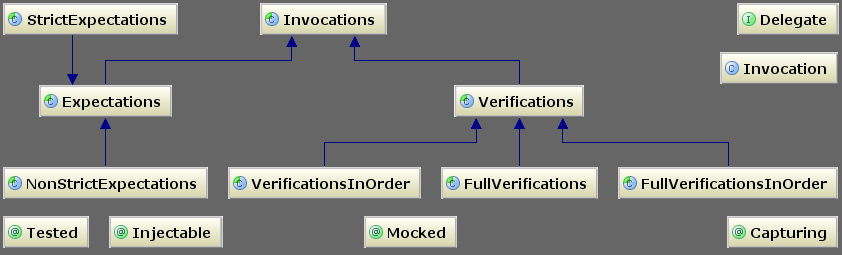
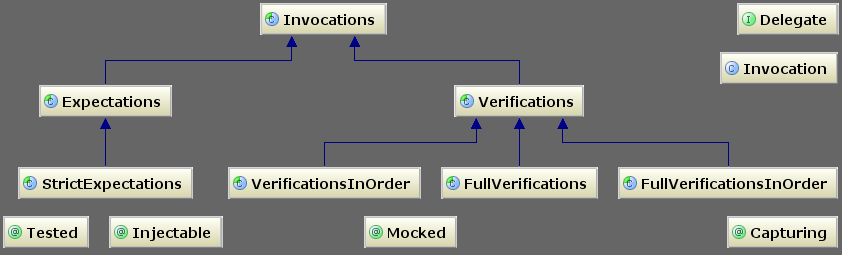
Updated the documentation to reflect deprecation of NonStrictExpectations.

Changed region(s): [[0.0, 0.0, 0.2162, 0.1373], [0.0, 0.6588, 0.247, 0.7961], [0.0618, 0.2745, 0.0926, 0.3294]]

diff --git a/tutorial/Mocking.html b/tutorial/Mocking.html
@@ -1,6 +1,6 @@
 <!DOCTYPE html>
 <!--
-  ~ Copyright (c) 2006-2015 Rogério Liesenfeld
+  ~ Copyright (c) 2006 Rogério Liesenfeld
   ~ This file is subject to the terms of the MIT license (see LICENSE.txt).
   -->
 <html>
@@ -31,7 +31,7 @@
    <li><a href="#expectation">Expectations</a></li>
    <li><a href="#model">The <em>record-replay-verify</em> model</a></li>
    <li>
-      <a href="#strictness">Regular, <em>strict</em>, and <em>non-strict</em> expectations</a>
+      <a href="#strictness">Regular versus <em>strict</em> expectations</a>
       <ol>
          <li><a href="#strictMocks">Strict and non-strict <em>mocks</em></a></li>
       </ol>
@@ -126,9 +126,8 @@
 </p>
 <div style="text-align: center;" title="Click on types to open API documentation">
    <map name="figure1">
-      <area shape="rect" coords="2,2,177,35" href="../api1x/mockit/StrictExpectations.html">
-      <area shape="rect" coords="38,84,172,117" href="../api1x/mockit/Expectations.html">
-      <area shape="rect" coords="2,166,208,199" href="../api1x/mockit/NonStrictExpectations.html">
+      <area shape="rect" coords="39,84,172,117" href="../api1x/mockit/Expectations.html">
+      <area shape="rect" coords="18,167,193,199" href="../api1x/mockit/StrictExpectations.html">
       <area shape="rect" coords="453,84,585,117" href="../api1x/mockit/Verifications.html">
       <area shape="rect" coords="227,166,421,199" href="../api1x/mockit/VerificationsInOrder.html">
       <area shape="rect" coords="440,166,598,199" href="../api1x/mockit/FullVerifications.html">
@@ -416,7 +415,7 @@ public class SomeTest
 <img src="code-folding.png" style="border: 1px solid #888; box-shadow: 4px 4px 4px #666;">
 
 <h2 id="strictness">
-   <a href="#strictness">Regular, <em>strict</em>, and <em>non-strict</em> expectations</a>
+   <a href="#strictness">Regular versus <em>strict</em> expectations</a>
 </h2>
 <p>
    Expectations recorded inside a
@@ -437,41 +436,28 @@ public class SomeTest
    This is achieved by using the <a href="../api1x/mockit/StrictExpectations.html">StrictExpectations</a> subclass.
 </p>
 <p>
-   Finally, we can record <em>non-strict</em> (or <em>loose</em>) expectations, through the
-   <a href="../api1x/mockit/NonStrictExpectations.html">NonStrictExpectations</a> subclass.
-   Inside a non-strict expectation block, all invocations to mocked types will be <em>allowed</em> to occur during the
-   replay phase, in any number (including zero) and in any order.
-   The recording of non-strict expectations is recommended for test setup methods only, such as a JUnit
-   <code class="annotation">@Before</code> method or the TestNG equivalent.
-</p>
-<p>
    Note that in the case of strict expectations, all invocations occurring during replay that match recorded
    expectations are <em>implicitly</em> verified.
    Any remaining invocations that don't match an expectation are considered unexpected, causing the test to fail.
    The test will also fail if any recorded strict expectation is missed, ie, if no matching invocations occur during
    replay.
-   By default, none of these constraints apply to non-strict expectations, which are usually <em>explicitly</em>
-   verified through verification blocks written with <code class="type">mockit.Verifications</code> or one of its
-   subclasses.
 </p>
 <p>
    We can mix expectations of different levels of strictness in the same test by writing multiple expectation blocks,
    some regular (using <code class="type">Expectations</code>), others strict (using
-   <code class="type">StrictExpectations</code>), others non-strict (using
-   <code class="type">NonStrictExpectations</code>).
+   <code class="type">StrictExpectations</code>).
    Normally, a given mock field or mock parameter will appear in expectation blocks of a single kind, though.
 </p>
 <p>
    Most tests will simply make use of "regular" expectations.
-   Usage of strict expectations is probably more a matter of personal preference, while the usage of non-strict
-   expectations tends to occur only in setup methods.
+   Usage of strict expectations is probably more a matter of personal preference.
 </p>
 
 <h3 id="strictMocks">
    <a href="#strictMocks">Strict and non-strict <em>mocks</em></a>
 </h3>
 <p>
-   Note that we do not specify that a given mocked type/instance should be <em>strict</em> or <em>non-strict</em>.
+   Note that we do not specify that a given mocked type/instance should be <em>strict</em> or not.
    Instead, the strictness for a given mock field/parameter is determined by how it is used in the test.
    Once the first strict expectation is recorded in a "<code>new StrictExpectations() {...}</code>" block, the
    associated mocked type/instance is considered to be strict for the whole test; otherwise, it will be <em>not</em>
@@ -1019,8 +1005,8 @@ public void someOtherTestMethod(@Mocked final DependencyAbc abc)
 <p>
    Besides specifying invocation count constraints on recorded expectations, we can also verify matching invocations
    explicitly in a <em>verification</em> block, <em>after</em> the call to the code under test.
-   This is valid for regular and non-strict expectations, but not for strict expectations, since they are always
-   verified <em>implicitly</em>; there is no point in re-verifying them in a explicit verification block.
+   This is valid for regular expectations, but not for strict expectations, since they are always verified
+   <em>implicitly</em>; there is no point in re-verifying them in a explicit verification block.
 </p>
 <p>
    Inside a "<code>new <a href="../api1x/mockit/Verifications.html">Verifications</a>() {...}</code>" block we can use
@@ -1178,7 +1164,7 @@ public void verifyFirstAndLastCallsWithOthersInBetweenInAnyOrder()
    Sometimes it may be important to have <em>all</em> invocations to the mocked types involved in a test verified.
    This is automatically the case when recording strict expectations, since any unexpected invocation causes the test to
    fail.
-   When regular or non-strict expectations are explicitly verified, though, a
+   When regular expectations are explicitly verified, though, a
    "<code>new <a href="../api1x/mockit/FullVerifications.html">FullVerifications</a>() {...}</code>" block can be used
    to make sure that no invocations are left unverified.
 </p>
@@ -1971,7 +1957,7 @@ public void testWithDifferentBehaviorForFirstNewInstanceAndRemainingNewInstances
    @Before
    public void init()
    {
-      new NonStrictExpectations() {{ UserAccount.find("john"); result = <strong>account</strong>; }};
+      new Expectations() {{ UserAccount.find("john"); result = <strong>account</strong>; minTimes = 0; }};
    }
 
    @Test
@@ -2007,7 +1993,7 @@ public void testWithDifferentBehaviorForFirstNewInstanceAndRemainingNewInstances
    method.
    This method first attempts to look up an existing user account from the given login name ("accountId", which is
    expected to be unique among all accounts).
-   Since several different tests are needed to fully exercise this method, a non-strict invocation to the
+   Since several different tests are needed to fully exercise this method, an invocation to the
    <code>UserAccount#find(String accountId)</code> method is recorded for all tests in the class, with a specific login
    name ("john") and the mocked account as the value to be returned.
    Remember, any given test can use multiple expectation and/or verification blocks.
@@ -2137,11 +2123,9 @@ public void recordStrictInvocationsInIteratingBlock(@Mocked final Collaborator m
 }
 </code></pre>
 <p>
-   This ability to specify the number of iterations for a group of invocations also applies to regular and non-strict
-   expectations.
+   This ability to specify the number of iterations for a group of invocations also applies to regular expectations.
    However, in this case the specified number of iterations is merely used as a <em>multiplier</em> for the upper and
    lower limits of invocation count constraints (both implicit and explicit ones).
-   Non-strict expectations with no specified invocation count constraint, therefore, are not affected.
 </p>
 
 <h3 id="iterations">

diff --git a/tutorial.html b/tutorial.html
@@ -36,7 +36,7 @@
          <li><a href="tutorial/Mocking.html#mocked">Mocked types and instances</a></li>
          <li><a href="tutorial/Mocking.html#expectation">Expectations</a></li>
          <li><a href="tutorial/Mocking.html#model">The <em>record-replay-verify</em> model</a></li>
-         <li><a href="tutorial/Mocking.html#strictness">Regular, <em>strict</em>, and <em>non-strict</em> expectations</a></li>
+         <li><a href="tutorial/Mocking.html#strictness">Regular versus <em>strict</em> expectations</a></li>
          <li><a href="tutorial/Mocking.html#results">Recording results for an expectation</a></li>
          <li><a href="tutorial/Mocking.html#instanceMatching">Matching invocations to specific instances</a></li>
          <li><a href="tutorial/Mocking.html#argumentMatching">Flexible matching of argument values</a></li>

diff --git a/changes.html b/changes.html
@@ -40,10 +40,15 @@
       <code class="type">MockUp&lt;T></code>.
    </li>
    <li>
+      <strong>Deprecated</strong> the <code class="type">NonStrictExpectations</code> class.
+      Existing tests should use <code class="type">Expectations</code> instead.
+   </li>
+   <li>
       Issues closed:
       <a href="https://github.com/jmockit/jmockit1/issues/263">#263</a>,
       <a href="https://github.com/jmockit/jmockit1/issues/264">#264</a>,
-      <a href="https://github.com/jmockit/jmockit1/issues/265">#265</a>.
+      <a href="https://github.com/jmockit/jmockit1/issues/265">#265</a>,
+      <a href="https://github.com/jmockit/jmockit1/issues/266">#266</a>.
    </li>
 </ul>
 
